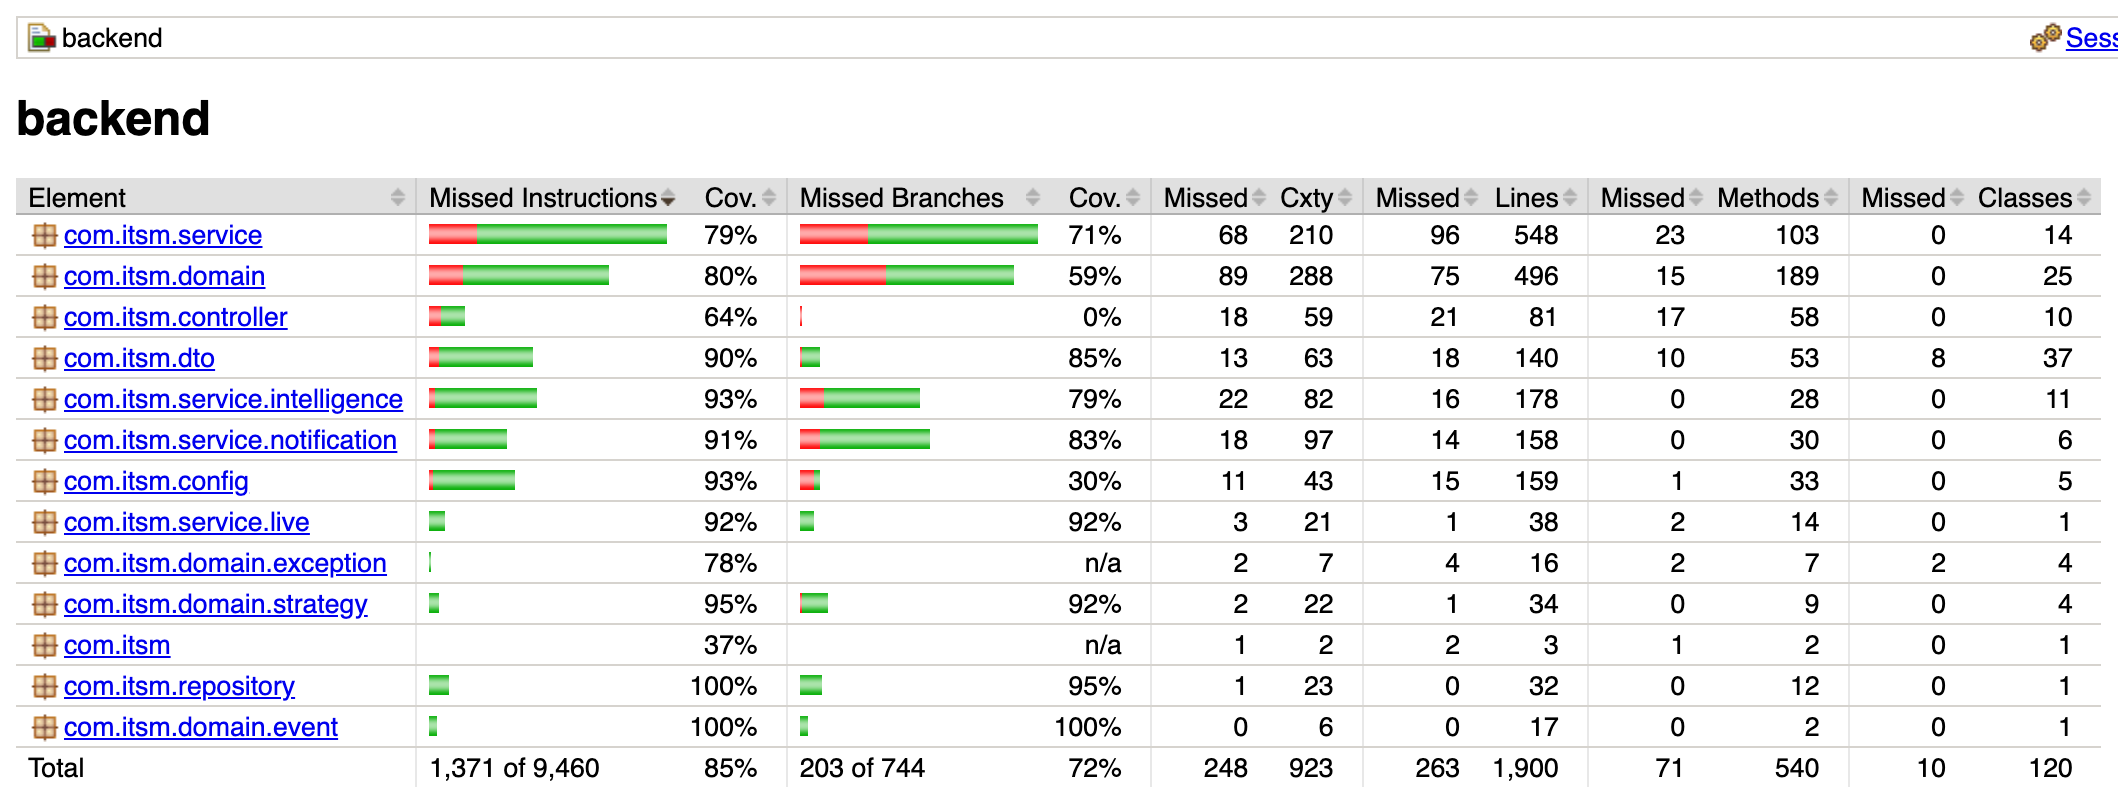
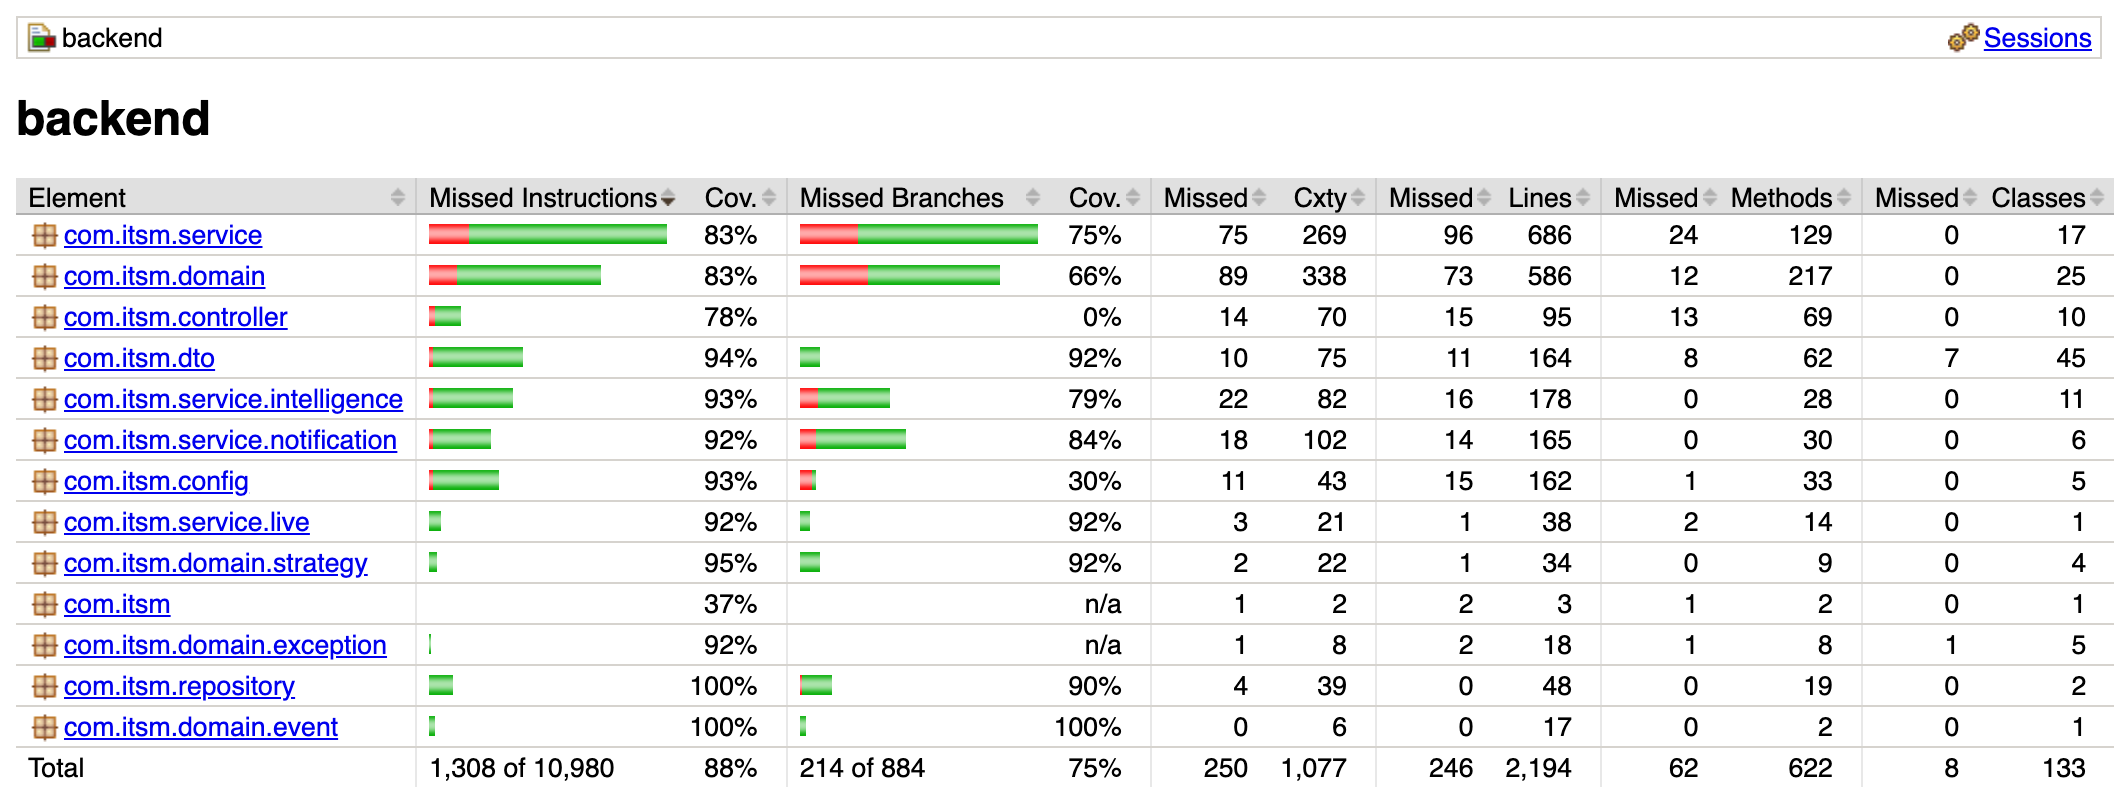
Re-capture test and coverage figures for v1.1
- mvnw verify: 315 tests, BUILD SUCCESS (was 249)
- npm test: 30 files, 263 tests (was 25 files, 231)
- JaCoCo: 88% instruction, 75% branch coverage (was 85% / 72%)

diff --git a/report/figures/README.md b/report/figures/README.md
@@ -57,9 +57,9 @@ new screens are numbered from 31.
 
 | Fig. | File | Caption |
 |------|------|---------|
-| 23 | `jacoco-coverage.png` | JaCoCo coverage summary after `./mvnw verify`: 85% instruction and 72% branch coverage. |
-| 24 | `mvnw-verify-summary.png` | `./mvnw verify` result: 249 tests, 0 failures, BUILD SUCCESS. |
-| 25 | `npm-test-summary.png` | `npm test` (Vitest) result: 25 test files, 231 tests passed. |
+| 23 | `jacoco-coverage.png` | JaCoCo coverage summary after `./mvnw verify` (v1.1): 88% instruction and 75% branch coverage. |
+| 24 | `mvnw-verify-summary.png` | `./mvnw verify` result (v1.1): 315 tests, 0 failures, BUILD SUCCESS. |
+| 25 | `npm-test-summary.png` | `npm test` (Vitest) result (v1.1): 30 test files, 263 tests passed. |
 | 26 | `live-update-before.png` | Live update, before: technician queue open in the browser. |
 | 27 | `live-update-after.png` | Live update, after: the queue updates by itself when another user changes an incident. |
 | 28 | `network-timeline-priority-raised.png` | Network incident history showing the system's PRIORITY_RAISED event (P3 → P2, 11 dependent services). |
